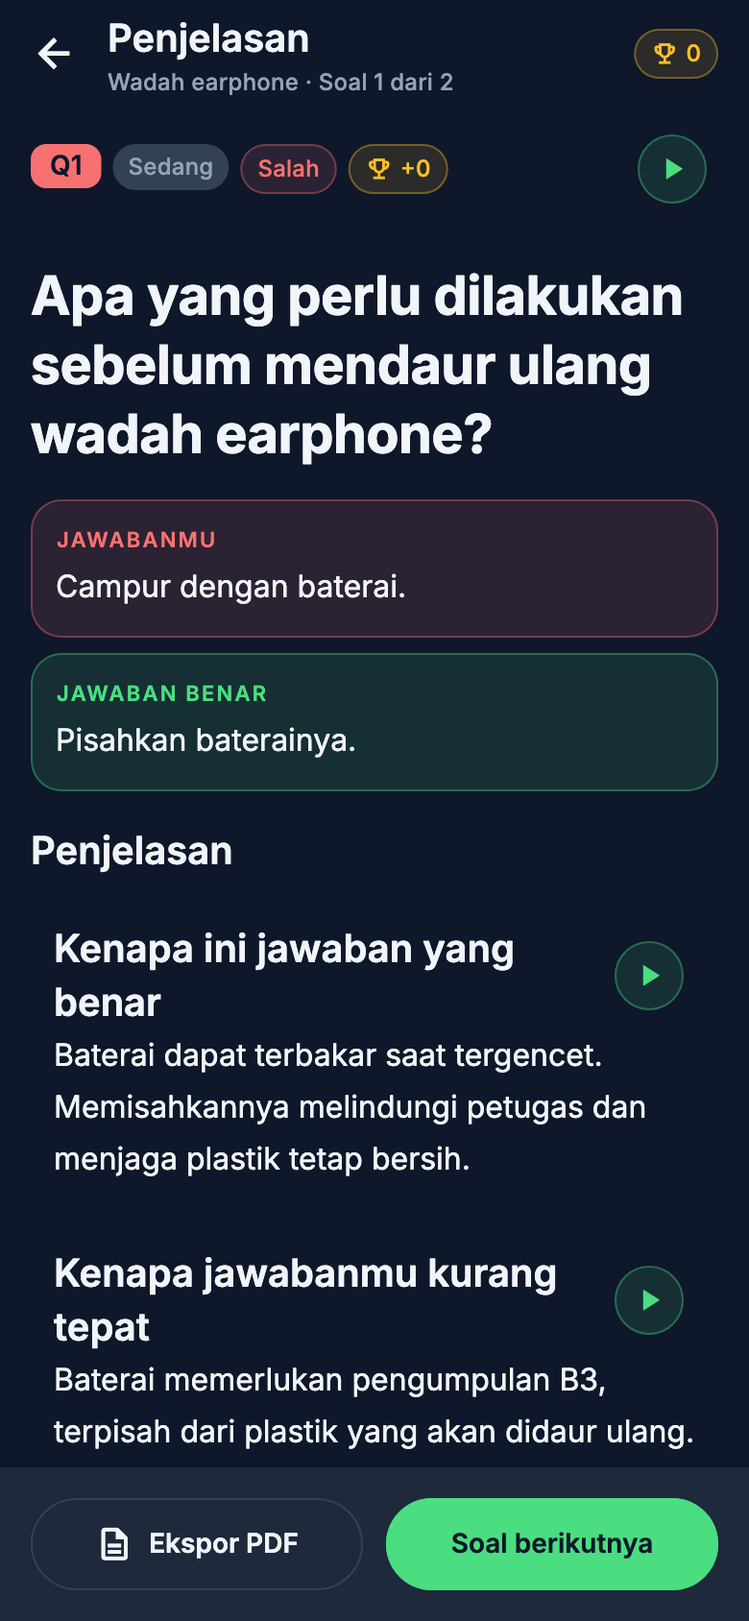
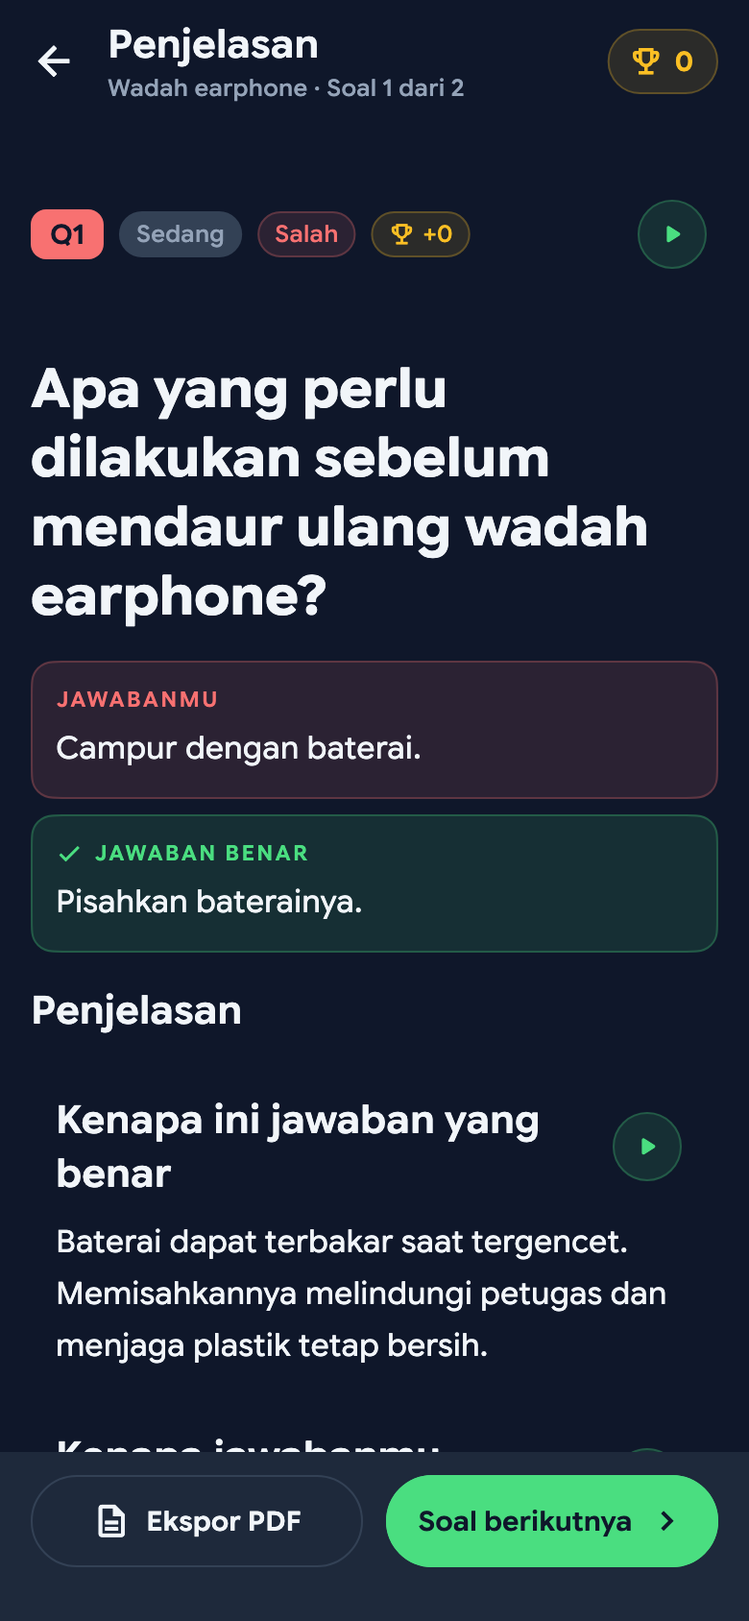
docs(history): H3-fix Figma refs, compare images, phone results
Figma references (docs/design/h3-figma), harness renders and Figma|app
side-by-sides before/after, USB phone screenshots, decision 0184,
CHANGELOG and HANDOFF.

diff --git a/docs/design/h3-figma/README.md b/docs/design/h3-figma/README.md
@@ -1,0 +1,94 @@
+# H3 History: Figma reference (source of truth for the UI)
+
+Figma file `J2jSbARJSyJCStNFeWkWDj`, page "H3 History screen" (`433:2358`), exported 5 Nov 2026 at 1x
+(390 px wide = 390 dp). Phone screenshots taken at the same dp width must match these images.
+Figma copy is English; the app shows the Indonesian strings from decision 0184.
+
+| File | Figma node (light / dark) |
+| --- | --- |
+| 01 History list | 435:2395 / 436:2987 |
+| 02 Scan detail | 435:2581 / 436:3170 |
+| 03 Loading list | 435:2781 / 436:3370 |
+| 04 Loading detail | 435:2936 / 436:3525 |
+| 05 Empty | 435:3060 / 436:3649 |
+| 06 Explanation | 439:3603 / 439:4238 |
+| 07 Explanation, reading aloud | 439:3764 / 439:4323 |
+| 08 Export this question sheet | 439:3944 / 439:4408 |
+| 09 Explanation loading | 439:4165 / 439:4536 |
+
+## Type (font: Google Sans Flex; code: Google Sans Code)
+
+| Style | Weight / size | Letter spacing |
+| --- | --- | --- |
+| Display | Bold 36 | -2 % |
+| Headline | Bold 28 | -1 % |
+| Subhead | SemiBold 20 | 0 |
+| Body Large | Regular 18 | 0 |
+| Body | Regular 16 | 0 |
+| Body Small | Regular 14 | 0 |
+| Button | SemiBold 14 | 0 |
+| Caption | Medium 12 | 1 % |
+| Overline | SemiBold 11, uppercase | 10 % |
+| Code | Google Sans Code Regular 14 | 0 |
+
+## Screen frame (all H3 screens)
+- Status inset 28, then top bar: Profile top bar 56 (list, empty, loading list) or Detail top bar 56
+  (back 48 dp, title Subhead, Export PDF icon button 48 dp) or Explanation top bar 64.
+- Content padding 8 top / 16 sides / 24 bottom, vertical gap 16. Background `bg`.
+- Bottom nav 84 with only History active (list, detail, empty, loading list/detail).
+  The explanation screen has no bottom nav; it has the actions bar instead.
+
+## Components (dp; r = corner radius; colours are ELIOS token names)
+- **Trophy summary** 358 wide, pad 16, gap 16, r16, `surface` + 1 px `border/subtle`.
+  Header row gap 12: badge 44 circle (`chip/warning-bg`, `chip/warning-border`, trophy 24 `warning/text`),
+  text column gap 2 (count Subhead `text/primary`, level Caption `text/secondary`).
+  Progress track 8 high, r full, `raised`, fill `primary/fill`.
+  Footer row space-between: "x trophies to Level n" Caption `text/secondary` + chip "Tersimpan lokal".
+- **Chip** (status) height 24, pad 2/8, gap 4, r full, tint bg + 1 px tint border, icon 14, text Caption.
+  success = `chip/success-*` + `primary/text`; error = `chip/error-*` + `error/text`;
+  warning = `chip/warning-*` + `warning/text`; info = `chip/info-*` + `info/text`; neutral = `raised` + `text/secondary`.
+- **Filter chips**: the existing Learn filter chip (height 40, r full). Selected = `primary/fill` + `primary/on-fill`;
+  default = `raised` + `text/primary`. Row gap 8.
+- **Section header**: the existing Learn section header (title Subhead, action Button `primary/text`).
+- **Scan row** 358 wide, pad 12, gap 12, r16, `surface` + `border/subtle`, centred vertically.
+  Photo 64x64 r12 `raised` (the saved crop, cover-fit; bin icon 40 only when no photo).
+  Info column gap 4: title Body `text/primary` (wraps), category chip, meta Caption `text/secondary` (wraps).
+  Right: trophy 18 + "+n" Button, both `warning/text`, gap 4. List gap 12.
+- **Scan detail**: photo 358x200 r16 `raised`; title Headline + category chip (row gap 12);
+  scan time row gap 6 (clock 16 + Caption `text/secondary`); difficulty filter chips; score card;
+  "Soal" section header with action "Ekspor PDF"; question cards gap 12.
+- **Score card** 358 wide, pad 16, gap 4, r16, `chip/warning-bg` + `chip/warning-border`, centred.
+  Trophy 28 + score Display `warning/text` (gap 8); "n dari m benar" Button `text/primary`; hint Caption `text/secondary`.
+- **Question card** pad 16, gap 12, r16, `surface` + `border/subtle`.
+  Header row gap 12: Q badge pad 3/10 r8 (`primary/fill` + `primary/on-fill` when right, `error/fill` + `error/on-fill` when wrong),
+  question Body `text/primary`. Chips row gap 8 (Benar/Salah chip, +trophy chip).
+  Answers panel pad 12, gap 12, r12, `raised`: label Overline `text/tertiary`, answer Body Small
+  (`primary/text` right, `error/text` wrong); "Jawaban benar" block only when wrong.
+  Link row gap 8: book icon 18 + "Lihat penjelasan" Button `primary/text`.
+- **Explanation top bar** 64 high, pad 4/16/4/4: back 48 dp, title column (Subhead + Caption `text/secondary`), trophy pill.
+- **Trophy pill** pad 6/12/6/10, gap 6, r full, `chip/warning-bg` + `chip/warning-border`, trophy 18 + count Button `warning/text`.
+- **Explanation screen content** (gap 16):
+  meta row = Q badge, difficulty chip (neutral), result chip, +trophy chip, spacer, listen button;
+  question Headline `text/primary`;
+  answers gap 8: "Jawabanmu" pad 12 r12 `chip/error-bg` + `chip/error-border` (label Overline `error/text`, text Body `text/primary`),
+  "Jawaban benar" same with success tint and a check 14 before the label;
+  "Penjelasan" section header (no action);
+  sections column gap 4; each section pad 12, gap 8, r12, no fill; title row gap 8 = title Subhead (fills) + listen button;
+  body Body `text/primary`. Reading state: `chip/success-bg` + `chip/success-border`, a "SEDANG DIBACAKAN" row
+  (volume 14 + Overline `primary/text`) above the title, listen button in Pause state.
+  Key idea card: pad 16/16/16/12, gap 12, r16, `chip/info-bg` + `chip/info-border`, bin buddy art 64x76 left,
+  text column gap 4 (Overline "IDE UTAMA" `info/text`, Body Small `text/primary`). No listen button on this card.
+  Steps block pad 0/12, gap 12: title Subhead, rows gap 12 = number circle 28 `raised` (Button) + Body.
+  No physics link, no module/guide/simulation link, no source citation.
+- **Listen button** 48 dp tap target, visual 36 circle. Play = `chip/success-bg` + `chip/success-border`, play icon 16 `primary/text`.
+  Pause = `primary/fill`, pause icon 16 `primary/on-fill`.
+- **Explanation actions** pad 12/16/28/16, gap 12, `surface`, top border 1 `border/subtle`.
+  Two 48 high r full buttons that share the width: outline (`border/medium`, file icon 20 + "Ekspor PDF")
+  and primary ("Soal berikutnya" + chevron 20, `primary/fill` + `primary/on-fill`).
+- **Export sheet** top radius 28, pad 12/16/28/16, gap 16, `surface`, scrim `#0F172A` at 55 %.
+  Handle 32x4 `border/medium`; title Subhead + Caption; file preview row pad 12 r12 `raised` (white A4 thumb 52x72);
+  "SERTAKAN" Overline `text/tertiary`; option rows 48 high (checkbox 24 r4 + Body); buttons row like the actions bar
+  ("Bagikan" outline with share icon, "Simpan PDF" primary with file icon).
+- **Skeleton block**: `border/medium` at 60 % with a white shimmer band (peak 16 % alpha), radii as the real element.
+  Skeleton layouts mirror the real cards (see 03, 04, 09).
+- **Empty**: illustration 240x180, title Subhead, body Body Small `text/secondary` 280 wide centred, primary pill button.

diff --git a/docs/test-results/0184-h3-fix/README.md b/docs/test-results/0184-h3-fix/README.md
@@ -1,0 +1,80 @@
+# H3-fix: History UI matched to Figma (PR #94)
+
+Source of truth: [`docs/design/h3-figma`](../../design/h3-figma/README.md) (Figma `J2jSbARJSyJCStNFeWkWDj`, page 433:2358),
+plus Figma frame metadata read through the Figma MCP for exact offsets.
+
+## Harness
+
+`test/history/h3_figma_harness_test.dart` renders the 9 states in light and dark at 390 dp wide (height = the Figma
+frame, so long screens show in full; 844 for the 844 frames), 1x, status inset 28, with an isolated fixture whose text is
+the Figma sample in Indonesian and no photo. List, loading list and empty are wrapped in the real shell parts
+(`ElioTopBar`, `ElioBottomNav` with History active). It writes:
+
+- `app/<mode>-0N-<state>.png`: app renders (after the fix)
+- `compare/<mode>-0N-<state>.png`: Figma | app (after the fix)
+- `before/<mode>-0N-<state>.png`: Figma | app before the fix
+
+Re-run: `flutter test test/history/h3_figma_harness_test.dart`.
+
+## Diff list (Figma value: before -> after)
+
+**All screens**
+- Font Google Sans Flex / Code: Inter + JetBrains Mono (headings mono) -> bundled Google Sans Flex/Code (commit `b9f076b`).
+- Chip tints `chip/*-bg`, `chip/*-border` (light 6/8/4/6 % + 35 %, dark 12 % + 25 %): ad-hoc 6 %/12 % + 35 % for all -> per-tone values from the Figma variables.
+- Detail/explanation top bar (56 / 64, back 48, Subhead title, Caption subtitle): Material AppBar, default title style -> `HistoryTopBar`.
+- Content padding 8/16/24, gap 16: 16 all round -> 8/16/24.
+
+**01 History list**
+- Trophy summary: bare 40 dp trophy icon -> 44 badge circle (`chip/warning-*`), text gap 2; footer Wrap -> space-between row.
+- Filter chips (40 high, Button style, `raised`/`primary`): ChoiceChip ~36, Body Small w600, `text/secondary` -> `HistoryFilterChip`.
+- Section header "Scan terbaru" + count Button `primary/text`: count Caption -> Button.
+- Scan row trophies (trophy 18 + "+n" Button `warning/text`, no pill): tinted pill -> icon + text. Category chip B3 "B3 · Hazardous": "B3" -> "B3 · Berbahaya". Photo cover-fit (README): contain -> cover.
+- Chip height 24, pad 2/8: ~22, pad 3/8 -> 24, 2/8.
+
+**02 Scan detail**
+- Title row: Wrap -> title fills, chip right. Scan time: no clock -> clock 16 + gap 6.
+- Difficulty: small pills -> 40 dp filter chips; label "Mudah · 1Q" (Figma "Easy · 1Q", fits one row; "1 soal" wrapped).
+- Score card: trophy 24 + Headline score, plain "n dari m" -> trophy 28 + Display `warning/text`, Button `text/primary`; tint 6 % -> 4 %.
+- "Soal" header: TextButton grey -> Button `primary/text`; header -> list gap 0 -> 16.
+- Question card: pad 12 -> 16; chip gap 6 -> 8; "Benar" chip gained check icon; answers: two white tinted cards (Body) -> one `raised` panel (Overline `text/tertiary` + Body Small `primary/text`/`error/text`, gap 12); link TextButton with padding -> book 18 + Button row.
+
+**03/04/09 Loading**
+- Skeleton blocks: `border/medium` + 35 % text sweep, stretched full width -> `border/medium` + 16 % white sweep, left-aligned widths that mirror 03/04/09 (summary badge/lines/track, chips 56/44/96/80, rows 64 square + 3 lines + right pill; detail photo/title/chip/score/question card; explanation meta row 100 with circle, 2 headline lines, 2 answer blocks, section lines).
+
+**05 Empty**: gaps 24/12/16 -> 16/8/16, body width 280, button Button style.
+
+**06/07 Explanation**
+- Meta row 100 high (Figma frame), chip gap 6 -> 8, difficulty chip neutral; question gap 24 -> 12.
+- Answers: white tint, Overline in sans override -> Figma tints, check 14 before "JAWABAN BENAR".
+- Sections: gap 8 between cards -> column gap 4; title/body gap 0 -> 8; reading: Caption "Sedang dibacakan" under title -> "SEDANG DIBACAKAN" row (volume 14 + Overline) above title.
+- Listen button: tinted pause -> Pause filled `primary/fill` + `primary/on-fill`, icons 16.
+- Key idea: tertiary 6 % tint with listen button -> `chip/info-*`, pad 16/16/16/12, no listen button.
+- Steps: card with listen button and grey pills -> plain block pad 0/12, number circle 28 `raised`, no listen button.
+- Trophy pill pad 6/12/6/10, icon 18, Button: small chip -> `HistoryTrophyPill`.
+- Actions bar: pad 16 -> 12/16/28/16; "Soal berikutnya" gains chevron 20; button sides 16 so Indonesian fits on one line.
+
+**08 Export sheet**: Material drag handle -> 32x4 `border/medium`; scrim default -> `#0F172A` 55 %; top radius 28;
+preview card `surface`+border -> `raised` r12 with white A4 thumb 52x72; options 56 dp Body Small -> 48 dp, checkbox 24, Body; "SERTAKAN" `text/secondary` -> `text/tertiary`.
+
+**Remaining differences (allowed or out of scope)**: Indonesian copy (some titles wrap where English fits); real level
+title; "A4 · PDF" instead of "A4 · 1 page · about 220 KB" (size unknown before generating); the shared `ElioBottomNav`
+(label "Riwayat", filled Learn icon, 64 dp + inset vs Figma 84) is not an H3 file; detail is a pushed route without the
+bottom nav (routes unchanged); dark unchecked checkbox border is the theme `formBorder`.
+
+## Phone (USB)
+
+| | |
+| --- | --- |
+| Device | Motorola Edge 60 Fusion (`ZP22233V8C`), Android 16 |
+| `wm size` / `wm density` | 1220x2712 / 450 -> 434 dp wide (not 390; fixed paddings, flexible widths) |
+| Build | `flutter build apk --debug --dart-define=LIVE_SCAN=true --dart-define=APP_COMMIT=642e5c4`, `adb install -r` (data kept); then reinstalled with the owner's usual flags (`TESTER_BUILD`, `DARK_MODE_OPTION`) |
+| Data | owner records read-only: `scan_records.json` 113,543 bytes, mtime 13:01 before and after |
+
+Screens in `phone/`: `light|dark-01-list-*`, `-02-detail-*`, `-06-explanation-*`, `-07-reading*`, `-08-export-sheet`.
+Loading and empty are harness-only (cached data loads instantly; empty would need touching owner data).
+
+Functional checks: TTS plays (Android speech audio track `started`), switches section, stops on back (track gone) and on
+app background (reading state cleared on resume); Simpan PDF wrote `Download/ELIOS/ELIOS_Modul-buck-converter_Q1.pdf`
+(5,841 bytes, left in Downloads) and showed the snackbar; Bagikan opened the Android share sheet (dismissed, nothing
+sent); trophy pill shows the real 442. `adb logcat -d | grep -i -E "flutter|elios"`: no exceptions, 0 "RenderFlex overflowed".
+Not done on the phone: airplane mode (a system setting; offline/retry stays covered by the existing tests and PR #94's phone run).

diff --git a/docs/test-results/0184-history-h3.md b/docs/test-results/0184-history-h3.md
@@ -2,11 +2,11 @@
 
 ## Automated checks
 
-- `flutter test --no-pub`: **1,226 passed, 20 skipped, 2 baseline failures**. The failing `test/theme/elio_tokens_test.dart` cases are “type scale matches the table” and “spacing scale and radii match the tables”. Both this test file and `lib/theme/elio_tokens.dart` are byte-identical to `origin/feature/live-scan`.
+- `flutter test --no-pub`: **1,235 passed, 20 skipped, 2 baseline failures**. The failing `test/theme/elio_tokens_test.dart` cases are “type scale matches the table” and “spacing scale and radii match the tables”. Both this test file and `lib/theme/elio_tokens.dart` are byte-identical to `origin/feature/live-scan`.
 - `flutter analyze --no-pub`: no errors/warnings; two existing informational findings in unchanged `test/m2c_identification_test.dart:7` and `test/question_bank_integrity_test.dart:104` (exit 1 because infos count).
-- Focused H3/compatibility run: **110 passed**; H3-only matrix: **75 passed**.
+- Focused H3/compatibility run: **110 passed**; original H3-only matrix: **75 passed**. Native-QA refinements add nine passing regressions (six styles, note pagination and two Android-save paths); the PDF group now passes 19 cases.
 - `git diff --check`: clean. `scripts/check-secrets.sh`: clean on the staged task diff.
-- Per-question A4 PDF rendered with bundled Poppler and visually inspected, including the photo and notes. No native Mac build, phone install or live Gemini request.
+- Per-question A4 PDF rendered with bundled Poppler and visually inspected, including the photo and notes. Native USB acceptance, live Gemini and downloaded PDF evidence: [phone report](0184-history-h3-phone.md). No Mac build.
 
 Coverage: explanation JSON validation and caps; correct-option protection; reviewed wrongWhy precedence; one retry; exact saved answer input; shared request slot; concurrent opens; durable cache/reopen/PDF; unavailable result persistence and explicit retry; schema migration; failed writes; late TTS setup; all 16 PDF include combinations with source exclusion; light/dark list, detail, explanation, sheet, empty and three skeleton layouts; timeout/retry; crop containment and damaged/missing files; section switching, pause, background and route exit; one selected History nav tab.
 
@@ -30,6 +30,9 @@ The initial offline regression test failed against the old implementation: it ge
 | draft bank answer announcement | 1 |
 | essay AI provenance | 1 |
 | Indonesian nav copy | 2 |
+| Native chip/title/action styling | 6 |
+| PDF notes pagination | 1 |
+| Android public save / storage failure | 2 |
 
 Examples include removing validation, bank precedence, durable cache/migration/write failure reporting, PDF options/source exclusion, phone/wide navigation and filtering, single selected tab, timeouts/reduced motion, TTS stop/race guards, crop containment and essay presentation.
 
@@ -66,4 +69,4 @@ flutter build apk --debug --dart-define=LIVE_SCAN=true --dart-define=TESTER_BUIL
 6. Open Ekspor PDF, toggle each include option, share and save. Inspect `ELIOS_<item>_Q<n>.pdf`; only this question, the selected content and the saved explanation should appear. Whole-record Ekspor PDF should still export the record.
 7. Check empty History starts a scan, skeletons stop animating with reduced motion, and a failed/stalled load offers Coba lagi. History must be the only selected nav tab.
 
-No Mac debug build or phone installation was performed. Existing app bundles, LaunchServices registrations and model stores were not changed.
+USB acceptance was performed on Motorola Edge 60 Fusion / Android 16; see the [phone report](0184-history-h3-phone.md). No Mac build or LaunchServices/model-store changes.

diff --git a/docs/decisions/0184-history-h3-ai-explanations.md b/docs/decisions/0184-history-h3-ai-explanations.md
@@ -8,7 +8,7 @@
 
 ## Decision
 
-History uses the existing theme palettes and bundled Inter for the Figma sans text styles, as Home already does. The phone list pushes a scan-detail route; wide windows keep two panes. Both use saved crops with containment, real store trophies, category filters, and the same question cards. Empty History starts a scan. No History records are invented or restored. Debug sample creation is absent from the UI and guarded against release/tester builds.
+History uses the existing theme palettes and the bundled Google Sans Flex (decision 0091). The phone list pushes a scan-detail route; wide windows keep two panes. Both use saved crops (cover-fit, H3-fix), real store trophies, category filters, and the same question cards. Empty History starts a scan. No History records are invented or restored. Debug sample creation is absent from the UI and guarded against release/tester builds.
 
 A question has a full-screen explanation with its saved answers, score, explanation sections, category buddy, small listen controls, next-question action and per-question export sheet. Source metadata remains stored but is absent from this route and its PDF. The existing whole-record PDF API remains available.
 
@@ -25,6 +25,18 @@ Each explanation request has a 20-second slot deadline and at most two attempts.
 TTS uses the existing service. A request epoch prevents delayed setup from speaking after a newer request or stop. Whole-question playback progresses through the saved sections; a section button speaks only that section. Switching, pause, route exit, export and app backgrounding stop playback. The current section receives a success tint and “Sedang dibacakan”. No read-aloud card/switch is added.
 
 Per-question PDFs use saved text only and honor independent answer/explanation/photo/notes options. They are A4, named `ELIOS_<item>_Q<n>.pdf`, and contain no source/module/guide/simulation metadata. On Android, Save publishes through MediaStore to Download/ELIOS without storage permission; failed writes remove only their own incomplete file. Other platforms retain the application reports directory. Share uses the platform share sheet. The sheet preview is the design's compact A4 file thumbnail, not a second generated explanation.
+
+## H3-fix: Figma match (5 Nov 2026)
+
+The screens now follow `docs/design/h3-figma/README.md` and its PNGs through shared components in `lib/widgets/history_ui.dart` (chip, filter chip, section header, scan row, trophy summary, score card, question card, listen button, explanation section, key idea, steps, actions bar, skeleton, top bar). Colours come from palette tokens; chip tints use the Figma variable alphas. Fixed colours are only the white A4 thumbnail and the `#0F172A` 55 % scrim. Visible choices that differ from the earlier H3 build:
+
+- Saved crops are cover-fit in list and detail (README spec), replacing containment.
+- Key idea and Steps have no listen button; they are still read in the whole-question listen and highlight while read. Text sections keep their own listen buttons.
+- The reading state is a "SEDANG DIBACAKAN" overline row above the section title; Pause is a filled primary circle.
+- Detail difficulty chips use "Mudah · 1Q" (as the Figma "Easy · 1Q" and the Q badges) so the three stay on one row; the B3 category chip reads "B3 · Berbahaya".
+- The skeleton base is opaque `border/medium` (the README's 60 % rendered visibly lighter than the PNGs).
+
+AI flow, cache/schema 4, TTS slot rules, PDF content, retry/offline states and routes are unchanged. Evidence: [H3-fix results](../test-results/0184-h3-fix/README.md).
 
 ## Verification and limits
 

diff --git a/docs/test-results/0184-history-h3-phone.md b/docs/test-results/0184-history-h3-phone.md
@@ -6,14 +6,14 @@ Device: Motorola Edge 60 Fusion, Android 16 / API 36. Same debug application ID,
 | --- | --- |
 | Existing data | 40 records, 120 saved answers, crop paths and 442 total trophies preserved; schema migrated from 2/3 to 4. Separate R3 test records untouched. |
 | Light/dark History and detail | Saved photos, score tint and question cards render; only Riwayat selected. B3 filter shows the expected 11 records. |
-| Live explanation | Actual Gemini responses saved to the existing buck-converter record, not local educational templates. Q1: 3.5 Flash-Lite 503 → 3.1 Flash-Lite success in 5.86 s. |
+| Live explanation | Actual Gemini responses saved to the existing buck-converter record, not local educational templates. Wrong Q1: 3.5 Flash-Lite 503 → 3.1 Flash-Lite success in 5.86 s. Correct Wadah earphone Q1 also generated from 3.5 Flash-Lite and rendered without a wrong-answer reason. |
 | Offline cached open | Saved Q1 opens with its explanation, without loading or changing generatedAt. |
 | Offline uncached open | Q2 shows unavailable + Coba lagi in 2.9 s, with no invented reason. Mobile data restored before retry. |
 | Retry online | Q2 saved a complete explanation from Gemini 3.5 Flash-Lite. |
 | TTS | Native id-ID playback, one service instance; whole-question sequence, section switching, pause, Back and background stops verified using native callbacks/VM state and button/highlight states. Pronunciation quality not independently heard. |
-| Question PDF | File saved inside app reports, actual A4 PDF pulled and rendered; saved explanation, chosen photo and notes present. |
+| Question PDF | Initial app-private export pulled and rendered; final Android public-download verification below. Saved explanation, chosen photo and notes present. |
 | Share and whole-record PDF | Correct filenames reach Android's share chooser; dismissed without selecting a recipient. |
-| Device QA fixes | Rounded/sans filter chips, sans detail title, rounded empty action; PDF note heading stays with writing lines. Six styling tests and the pagination regression failed before the fixes. |
+| Device QA fixes | Rounded/sans filter chips, sans detail title, rounded empty action; PDF note heading stays with writing lines. Six styling tests, the pagination regression and two Android-save tests failed before the fixes. |
 
 No owner record was added, deleted or reconstructed. Only explanation cache/schema fields changed. Network state is restored after each offline test. Empty state, essay-specific review and forced list/detail timeouts remain covered by automated tests rather than altering owner data to manufacture those states on the phone. No robot motion or iOS test.
 

diff --git a/docs/HANDOFF.md b/docs/HANDOFF.md
@@ -5,8 +5,9 @@
 - ELIOS Gemini slot supplies validated explanations (one retry), with reviewed-bank-only fallback. Schema 4 retains saved answers/source metadata and removes legacy local templates. Reopen/TTS/PDF use the saved result; Coba lagi retries only an incomplete explanation.
 - Whole-record export and in-quiz overlay remain; quiz-time explanation yields to busy prefetch. No source/module/guide/simulation references on the new route/question PDF; no demo seed UI or owner records created.
 - Validation, break-checks, screenshots and phone steps: `docs/test-results/0184-history-h3.md`. Final check results recorded there before PR creation.
-- USB phone acceptance: Motorola Edge 60 Fusion / Android 16 updated in place with source `c0238a9` (TESTER_BUILD, LIVE_SCAN, DARK_MODE_OPTION). 40 records / 120 answers / 442 trophies retained; History backed up privately before install. Live Gemini, offline retry/cache, TTS lifecycle and both PDF exports exercised. Final styling/PDF refinement build follows; see `docs/local-build-notes.md`.
+- USB phone acceptance: Motorola Edge 60 Fusion / Android 16 updated in place with source `500ae5a` (TESTER_BUILD, LIVE_SCAN, DARK_MODE_OPTION). 40 records / 120 answers / 442 trophies retained; History backed up privately before install. Live Gemini, offline retry/cache, TTS lifecycle and both PDF exports exercised. Styling/PDF refinement built; Android saves to Download/ELIOS; see `docs/local-build-notes.md`.
 - No Mac app bundles/registrations, model stores, signing/Keychain or private configuration changed. Existing owner work remains uncommitted and unchanged.
+- H3-fix (5 Nov): screens matched to `docs/design/h3-figma` (fonts commit `b9f076b`, UI `642e5c4`). Harness `test/history/h3_figma_harness_test.dart` writes app/compare/before images to `docs/test-results/0184-h3-fix/`. Phone re-tested over USB (434 dp wide), app reinstalled in place with TESTER_BUILD/LIVE_SCAN/DARK_MODE_OPTION, owner records untouched, light mode restored. One test PDF left in Download/ELIOS. Airplane-mode check not repeated (system setting).
 ## Existing robot context
 - #89/#90 are merged into `feature/live-scan`. Next robot session: issue #92 (PICK UP→RELEASE tag search, sim-style tag overlay/axes and bin tags 2–4; owner questions remain).
 - 0183 calibration: camera `dcea9b1d`, 640×360/33 fps, fx 374, cx 303.9, cy 183.0, 81.1×51.4°; keep the 6.17 mm arm tag until the owner replaces it. Backups and the current phone/camera notes follow.

diff --git a/docs/local-build-notes.md b/docs/local-build-notes.md
@@ -11,6 +11,9 @@
 - Live AI: Q1 used Gemini 3.1 Flash-Lite after 3.5 Flash-Lite returned 503 (5.86 s); Q2 retry used 3.5 Flash-Lite. Saved explanations carry source/model/generatedAt. No fake records inserted.
 - Native TTS inspected through the debug VM: one service instance, `id-ID`, speaking → idle on pause, exit and background; section switching advances the cancellation epoch. Audio pronunciation was not independently heard.
 - Offline test temporarily disabled mobile data, then restored the original network state (Wi-Fi off, mobile data on). Cached explanation opened without loading; uncached question offered Coba lagi in 2.9 s, and retry succeeded online.
-- Question PDF saved in the app reports directory; both question and whole-record export opened Android's share chooser. No recipient selected or file sent.
+- Initial question PDF saved in the app reports directory; USB QA identified that Files could not browse it. Refinement switches Android Save to MediaStore Download/ELIOS; both question and whole-record export opened Android's share chooser. No recipient selected or file sent.
 - Phone QA found inherited rectangular chips/action and mono detail title, plus PDF notes splitting away from their heading. Regression tests reproduced these before the fixes.
 - No Mac ELIOS app built/launched, no LaunchServices changes, no model-store, Keychain or signing changes. Existing `~/Applications/ELIOS.app` and owner model copies were not touched.
+
+- Final refinement APK built from `500ae5a` with the same flags, output, package and signing identity. `assembleDebug` completed in 87.2 s. No dependency, model, Mac bundle or signing changes.
+- H3-fix APK (5 Nov): built from `642e5c4` with the same flags/output/package/signing, `adb install -r` over the existing app; `scan_records.json` unchanged (113,543 bytes). An interim build without TESTER_BUILD/DARK_MODE_OPTION was replaced by the flagged build. No Mac bundle, model or signing change.

diff --git a/CHANGELOG.md b/CHANGELOG.md
@@ -11,6 +11,8 @@ kept outside the repo.
 
 ## [Unreleased]
 
+- History H3 now matches the Figma design in light and dark: Figma chip tints, 40 dp filter chips, trophy summary badge, scan rows with trophies on the right, Display score card, one answers panel per question card, Figma top bars, explanation sections with a "SEDANG DIBACAKAN" row, Key idea and Steps without their own listen button, a 48 dp actions bar and the Figma export sheet. Saved crops are cover-fit. A 390 dp harness renders all 18 Figma states with side-by-side images (decision 0184).
+
 - Fonts: the whole app now uses the bundled Google Sans Flex (UI and headings) and Google Sans Code (code), both SIL OFL 1.1, instead of Inter and JetBrains Mono. Headings, overlines and chips are no longer monospaced. No runtime font download (decision 0091).
 
 - H3 phone acceptance: History filters and empty action keep their rounded design, detail titles use the theme sans font, and question-PDF note lines stay with their heading across page breaks. Android Simpan PDF writes to the browsable Download/ELIOS folder. Verified over USB on Motorola Edge 60 Fusion (Android 16), including live Gemini, offline retry/cache, TTS and Android PDF save/share.
